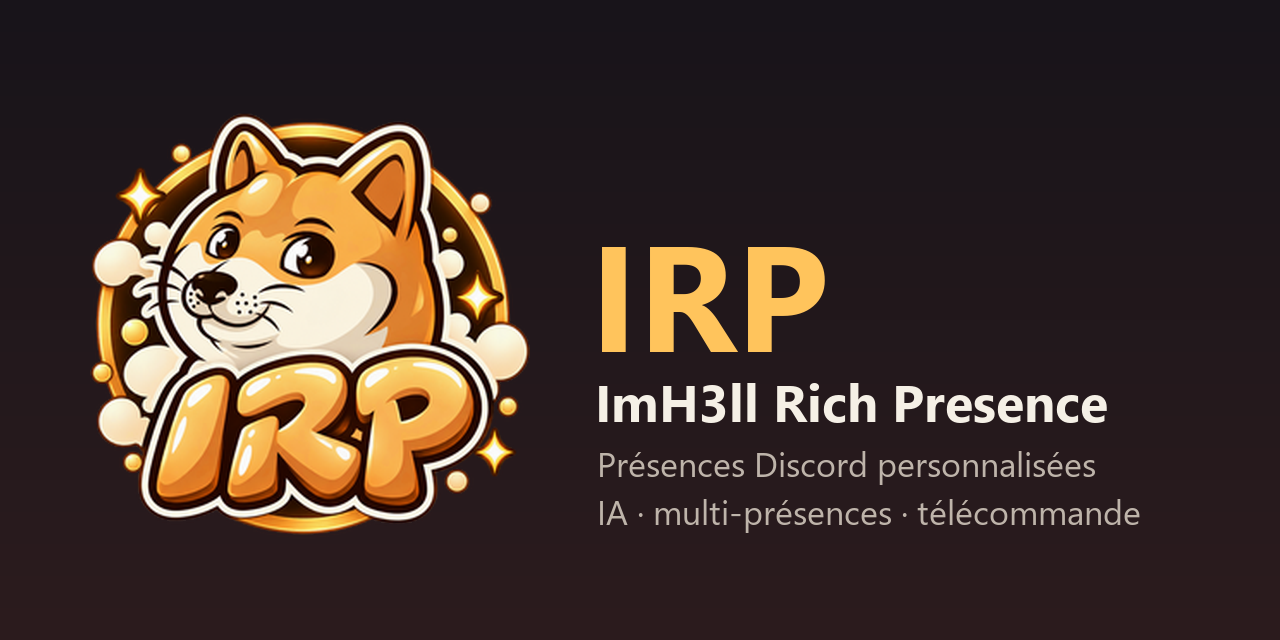
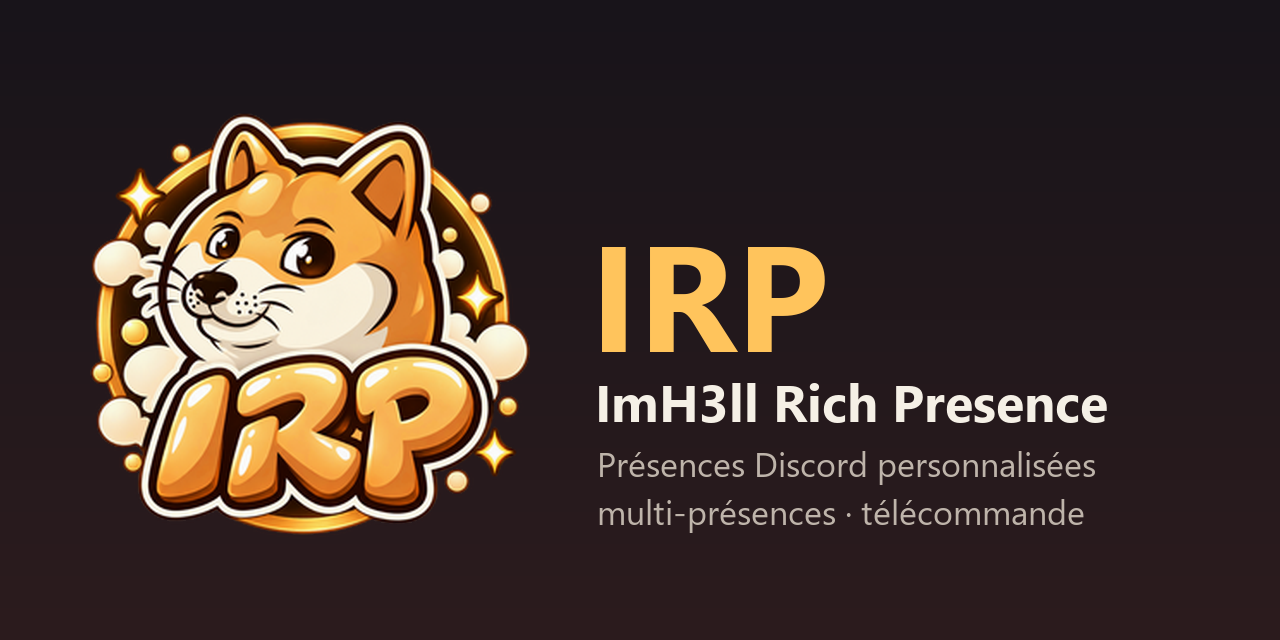
Page : l'IA passe au second plan, bannière d'aperçu mise à jour

Changed region(s): [[0.4688, 0.7812, 0.9062, 0.8438]]

diff --git a/README.md b/README.md
@@ -38,8 +38,7 @@ L'aperçu à droite montre la carte **exactement comme Discord l'affichera**, av
 
 1. **Cherchez votre jeu** : parmi plus de 24 000 jeux reconnus par Discord, les plus joués en premier.
    Les fautes et les sigles passent (« gta 5 », « lol », « cs2 »).
-2. **Écrivez votre message**, ou laissez l'**IA** proposer textes, chrono et groupe. Elle s'appuie sur la vraie
-   description du jeu (Steam, Wikipédia) au lieu d'inventer ; relancez jusqu'à ce que ça vous plaise.
+2. **Écrivez votre message** (en panne d'idée ? un bouton vous en propose une).
 3. **Afficher sur Discord**. C'est tout.
 
 <p align="center"><img src="docs/04-recherche.png" alt="Recherche par sigle « gta 5 »" width="900"></p>
@@ -140,7 +139,6 @@ Stream Deck, retour automatique après une mise en veille. Un guide pas à pas e
 - Passe par la fonction officielle de Discord de bureau : **pas de selfbot, pas de jeton de compte**, aucun
   risque de bannissement lié à l'app
 - Modèles, historique et statistiques restent **sur votre PC** ; pas de télémétrie
-- L'IA ne reçoit que le nom du jeu, jamais vos textes
 - Télécommande désactivée par défaut, chiffrée de bout en bout, révocable en un clic
 - Mises à jour intégrées, vérifiées par empreinte, **installées seulement quand vous le décidez**
 
